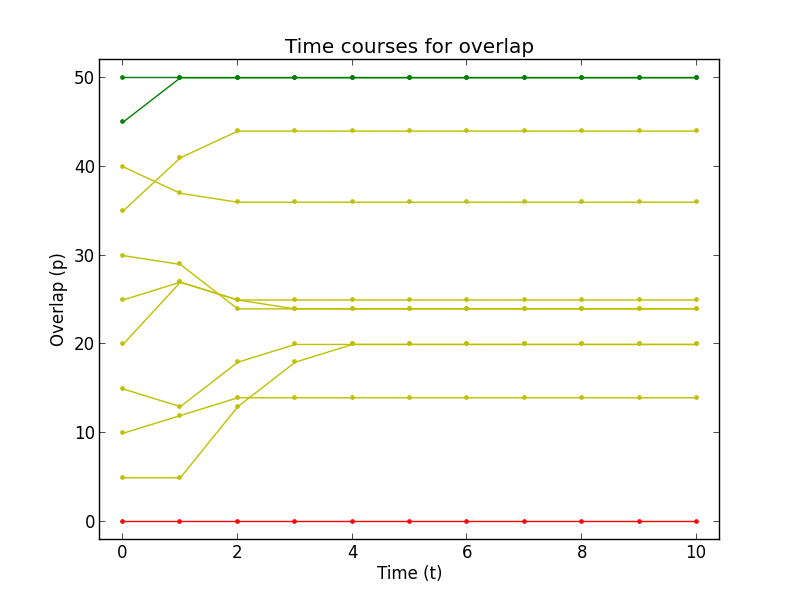
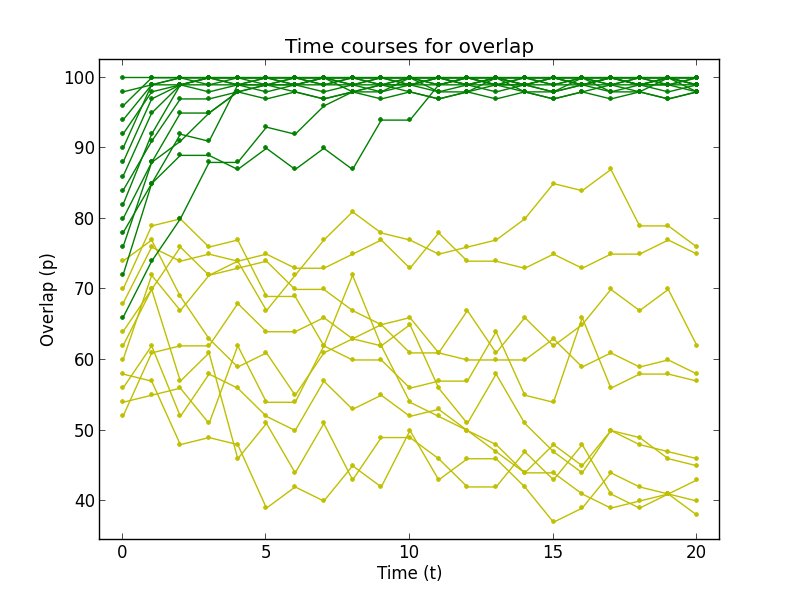
Finally have partial reverse working correctly. Stupid mistake, wasn't properly normalizing the weight matrix.

diff --git a/python/network.py b/python/network.py
@@ -34,7 +34,8 @@ class Hopfield_Network(object):
 		self.memories.append(np.matrix(memory))
 		self.num_memories += 1
 		#self.sum_outer_products() inefficient
-		self.weights += np.transpose(np.matrix(memory))*np.matrix(memory) - np.identity(self.n)
+		self.weights = self.weights + np.outer(memory,memory) - np.identity(self.n)
+		# self.weights += np.transpose(np.matrix(memory))*np.matrix(memory) - np.identity(self.n)
 
 
 	def remove(self, memory):
@@ -115,7 +116,7 @@ class Hopfield_Network(object):
 		One timestep in the network update process, when the network is updated synchronously.
 		'''
 
-		Tx = [np.sign(i) for i in (self.state_vector*self.weights).tolist()[0]]
+		Tx = [np.sign(i) for i in self.mult_state(self.weights,self.state_vector)]
 		Tx[Tx == 0] = 1
 		self.state_vector = np.array(Tx)
 
@@ -129,7 +130,7 @@ class Hopfield_Network(object):
 		# h = 1+2.0*math.sqrt(r)
 
 		h = 1.9
-		print "h"+str(h)
+		# print "h"+str(h)
 		lam = 2.7
 		self.state_vector = probe
 		time_series = []
@@ -137,67 +138,38 @@ class Hopfield_Network(object):
 		time_series.append(self.state_vector[:])
 		for i in range(t/2):
 
-			#Phase I:
-			# for i in range(self.n):
-			# self.update_synch()
-			
-			# print self.state_vector
-			#Phase II:
-
-			# #this is an attempt to interpret his "explicit" version
-			# #THIS WORKS... Kind of
-			
-			# u = [i for i in (self.state_vector*self.weights).tolist()[0]]
-			# v = [self.phi(i) for i in (self.state_vector*self.weights).tolist()[0]]
-
-			# for j in range(len(v)):
-			# 	v[j]  = v[j]*lam
-
-			# self.state_vector = np.array([np.sign(a_i - b_i) for a_i, b_i in zip(u, v)])
-			# time_series.append(self.state_vector[:])
-
-			#Phase II:
 			#this is an attempt to interpret his "explicit" version iteratively
-			#phase I
-			u = [0]*self.n
-			v = [0]*self.n
-			for i in range(self.n):
-				for j in range(self.n):
-					u[i]+=self.weights[i,j]*self.state_vector[j]
-
-				# u[i]/=j
-			for i in range(self.n):
-				self.state_vector[i]=np.sign(u[i])
-			# time_series.append(self.state_vector[:])
-			#phase II
+			# u = [0]*self.n
+			# v = [0]*self.n
 			# for i in range(self.n):
 			# 	for j in range(self.n):
-			# 		u[i]+=self.weights[i,j]*self.state_vector[j]
-				# u[i]/=j
-			for i in range(self.n):
-				for j in range(self.n):
+			# 		u[i]+=self.weights[i,j]*self.state_vector[j]					
 
-					v[i]+=self.weights[i,j]*self.phi(u[j])
+			# 	# u[i]/=j
+			# for i in range(self.n):
+			# 	self.state_vector[i]=np.sign(u[i])
 
-			print u
-			# print v
-			for i in range(self.n):
-				# print u[i]-lam*v[i]
-				# if(( (float(u[i])/v[i] ) >0 and (float(u[i])/v[i]) < lam)):
-				# 	# print "true"
-				# 	self.state_vector[i]=self.state_vector[i]*-1
-				# else:
-					# print "false"
-				print u[i]-lam*v[i]
-				self.state_vector[i]=np.sign(u[i]-lam*v[i])
-				# if(v[i]!=0 and float(u[i])/v[i]<lam and float(u[i])/v[i]>0):
-				# 	self.state_vector[i]*=-1
+			# for i in range(self.n):
+			# 	for j in range(self.n):
 
-			#Phase II:
+			# 		v[i]+=self.weights[i,j]*self.phi(u[j])
+
+			# for i in range(self.n):
+				
+			# 	# print u[i]-lam*v[i]
+			# 	self.state_vector[i]=np.sign(u[i]-lam*v[i])
+			# 	# if(v[i]!=0 and float(u[i])/v[i]<lam and float(u[i])/v[i]>0):
+			# 	# 	self.state_vector[i]*=-1
+
 			#this is an attempt to interpret his "abbreviated" version
 			# temp = np.array((self.mult_state(self.weights,(self.state_vector-[lam*i for i in [self.phi(i) for i in (self.mult_state(self.weights,self.state_vector))]]))))
 			# self.state_vector = np.array([np.sign(i) for i in temp])
-			# time_series.append(self.state_vector[:])
+			
+			a = self.mult_state(self.weights,self.state_vector)
+		 	b = [lam*self.phi(i) for i in a]
+		 	c = [i-j for i, j in zip(self.state_vector, b)]
+			d = self.mult_state(self.weights,c)
+			self.state_vector=[np.sign(i) for i in d]
 
 			time_series.append(self.state_vector[:])
 		return time_series
@@ -215,8 +187,9 @@ class Hopfield_Network(object):
 	def mult_state(self,weights,state):
 		tstate = [[i] for i in state]
 		# print np.shape(tstate)
-		return [i.tolist()[0][0] for i in weights*[[i] for i in state]]
+		return [i.tolist()[0][0] for i in weights*tstate]
 	def normalize_net(self):
-		for i in range(len(self.weights)):
-			for j in range(len(self.weights[i])):
-				self.weights[i,j]/=self.n
+		self.weights = np.divide(self.weights,float(self.n))
+		# for i in range(len(self.weights)):
+		# 	for j in range(len(self.weights[i])):
+		# 		self.weights[i,j]/=float(self.n)

diff --git a/python/simulation.py b/python/simulation.py
@@ -14,14 +14,14 @@ def main():
 	sims = 1
 	#general parameters
 	n=100
-	num_overlap_levels = 5
+	num_overlap_levels = 50
 
 	if(n<num_overlap_levels):
 		print "Be better."
 		exit()
 
 	num_trials=1
-	time_limit = 20
+	time_limit = 40
 	r = .025 #r is the ratio of memories to neurons m:n
 
 	synch=True #if false, use async update scheme.
@@ -68,7 +68,7 @@ def simulate(n,num_overlap_levels,num_trials,time_limit,r,synch,part_reverse,tol
 	overlap level as dictated by its location in the o_levels list. Cool.
 	'''
 	
-	p_references = np.arange(n/2, n+1, n/num_overlap_levels) #just for keeping track of which indexes of o_levels are for which overlap percentages
+	p_references = np.arange(0, n/2, n/num_overlap_levels) #just for keeping track of which indexes of o_levels are for which overlap percentages
 	#o_levels is a list. Each index has a set of trials conducted for that initial overlap level, which is a "trials" list. Each trials list contains time-series lists
 	#containing integers corresponding to how many indexes of the memory are correct.
 	o_levels=[]
@@ -82,6 +82,7 @@ def simulate(n,num_overlap_levels,num_trials,time_limit,r,synch,part_reverse,tol
 		memories.append(generate_memory(n))
 		net.store(memories[i])
 	print compare(memories[0],memories[1])
+
 	net.normalize_net()
 	#now, we run trials on this network.
 	tally_perfect=0
